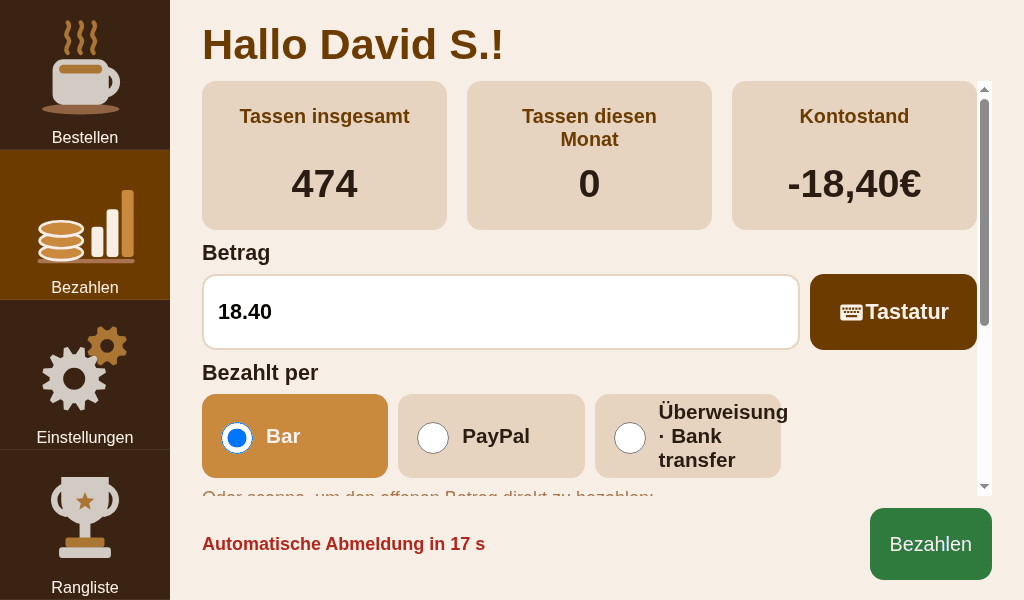
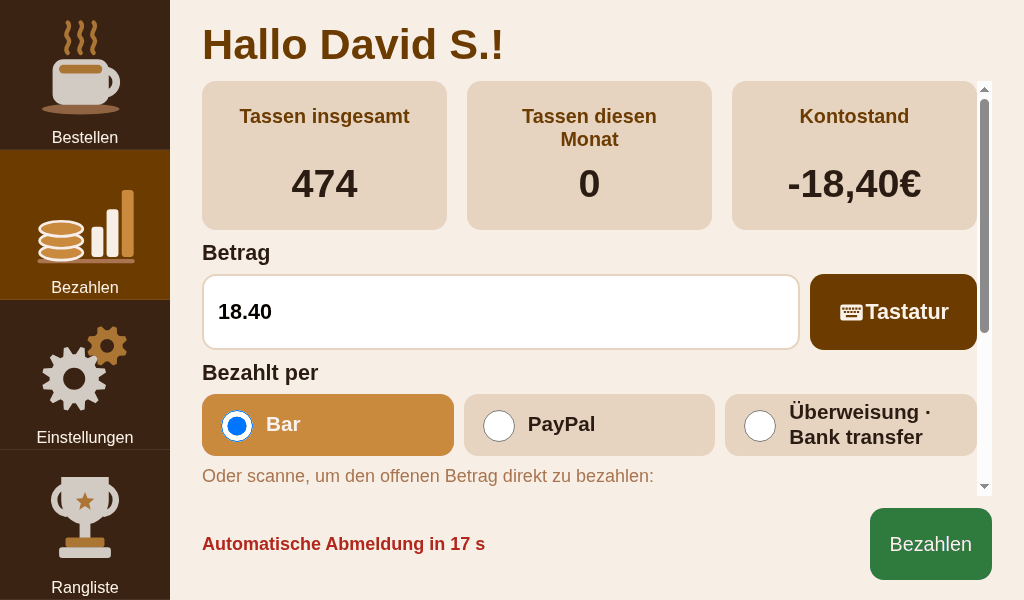
feat: Update payment method display for better readability and responsiveness

Changed region(s): [[0.1875, 0.63, 0.9688, 0.84], [0.9375, 0.54, 0.9688, 0.57]]

diff --git a/static/kiosk/kiosk.css b/static/kiosk/kiosk.css
@@ -239,6 +239,12 @@ fieldset.field legend { padding: 0; margin-bottom: 8px; }
 /* Settings: twelve sorts fit next to the name field without scrolling (measured at 1024x600). */
 .panel-body:has(.coffee-grid) { gap: 10px; }
 .coffee-option .price { margin-left: auto; font-weight: 600; }
+/* A payment method's name ("Überweisung · Bank transfer") stays inside its tile: the few methods
+   share the row (auto-fit) so a name breaks between words, at most two lines, then "…"; a word
+   too long even for that breaks inside it. */
+.coffee-grid:has(.method-name) { grid-template-columns: repeat(auto-fit, minmax(170px, 1fr)); }
+.coffee-option .method-name { min-width: 0; line-height: 1.2; overflow: hidden; overflow-wrap: break-word;
+  display: -webkit-box; -webkit-line-clamp: 2; -webkit-box-orient: vertical; }
 
 .action-row {
   display: flex;

diff --git a/kiosk/templates/kiosk/panel.html b/kiosk/templates/kiosk/panel.html
@@ -220,7 +220,7 @@ instead of restarting it every second. Hence the clock is filled in by clock.js,
                     {% for name in payment_method_names %}
                     <label class="coffee-option">
                         <input type="radio" name="method" value="{{ name }}" {% if forloop.first %}checked{% endif %}>
-                        <span>{{ name|method_label }}</span>
+                        <span class="method-name">{{ name|method_label }}</span>
                     </label>
                     {% endfor %}
                 </div>
